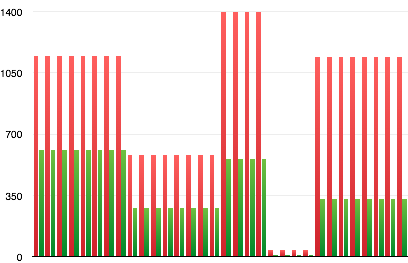
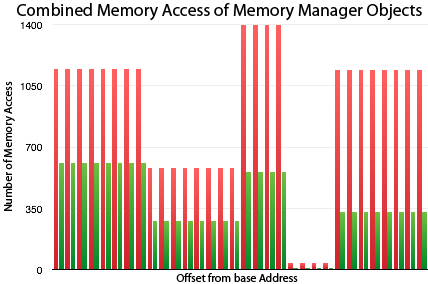
Initial version of my part of the report

diff --git a/report.md b/report.md
@@ -63,7 +63,44 @@ Due to time constraints, several questions and problems remain unsolved:
  - Benchmark the performance of a pure request based memory manager (where no freeing occurs mid request). This was attempted early on with promising results before focus changed.
  - Analyse the relationship between memory usage and response time as these modifications introduce memory as a potential performance bottleneck.
  - Preserve the copy-on-write semantics of PHP whilst removing exact reference counting.
+ 
+##Analyzing memory accesses (Jan Zimmer)
+All memory must end somewhere. But how is it accessed?
 
+The goal of this task was to analyze memory access within the vm's representation of the php objects. This was to be achieved by tracking down where the actual php objects get created within hhvm, and then use Valgrind to record memory loads and stores to the memory block where the php object got created. 
+
+This analysis can then be used to optimize for frequently accessed sectors, or optimization of sectors which aren't used anymore. 
+
+To do this, flags were inserted into the smart memory manager of HHVM to log all creations and destructions of objects and their corresponding address ranges. Valgrind was then simultaneously logging all load and stores of memory and their corresponding addresses. These two logs were interleaved and written to the same log file for synchronization.
+
+A parser was then written go over the log file, and actually record on a per object basis, how many reads and writes happened at different offsets to the object addresses. This approach however underwent several issues which in the end failed to make it usable, as will be mentioned below. 
+
+[The parser tool](https://github.com/TsukasaUjiie/srs-hhvm-notebook/tree/master/valgrind-tools/lackey_parser). 
+
+###Results
+![](images/PhysicalMemoryGraph.png "Combined Memory Accesses of Memory Manager Objects")
+
+_Disclaimer, these results are not yet representative of HHVM's actual behavior as the tool is not in working condition_
+
+As a demonstration what a tool like this might be able to produce, the tool was run over the center-of-mass benchmark, and filtered to any objects of 32 bytes in length, but as the tool still has no other filtering method, it is unknown whether these were php objects, and if they were, what kind of php objects they were. 
+
+Potential analysis which could be taken from something like this are:
+
+- The virtual machine appears to execute a lot more stores than loads on the memory. 
+- The memory sectors with offset 20-23 appear to be only rarely used, possibly due to changes in the hhvm data structures which no longer use that
+
+###Issues
+The current workflow extracts the addresses of objects to monitor by printing them out from the HHVM code. And the addresses of accessed memory sectors are printed during the Valgrind's interpretation of the HHVM code. However, these two things are not actually executed in parallel, but are executed alternately. For efficiency reasons in Valgrind, it will interpret multiple instructions in one block and then execute them in one block instead of alternating after every single instruction.   
+The problem which is encountered by this is that during a call to create an object, Valgrind will first interpret that instruction, but due to the complexity of extracting specific memory sector content out of Valgrind, this will not produce anything in the logs. Several accesses to that location happen which are observed but are not regarded as relevant yet. Before the block of execution comes to an end, it is deallocated again.   
+The end effect of all of this is that Valgrind ignores all memory accesses to that memory location as it hasn't been specifically told during the HHVM execution to monitor those memory addresses. And as the object has also already been deallocated before having been told about it in the first place, Valgrind will have missed all memory access.  
+It unfortunately is not a possibility to offset the two logs cleverly to overlap properly as it is common for the same memory address to get allocated and deallocated multiple times within the same block, and then even an offset won't be able to tell which memory accesses pertain to which particular version of the object. 
+
+###Further Work
+What the project still needs:
+
+- Actual filtering of different objects so we don't record the objects of the c++ vm as well
+- Potential further filtering between different php primitives
+- A valgrind tool capable of detecting which sectors to monitor from within Valgrind's Intermediate-Representation and replacing the need for any large log files. 
 
 [render_command]: pandoc report.md -o report.pdf
 [references]: below
